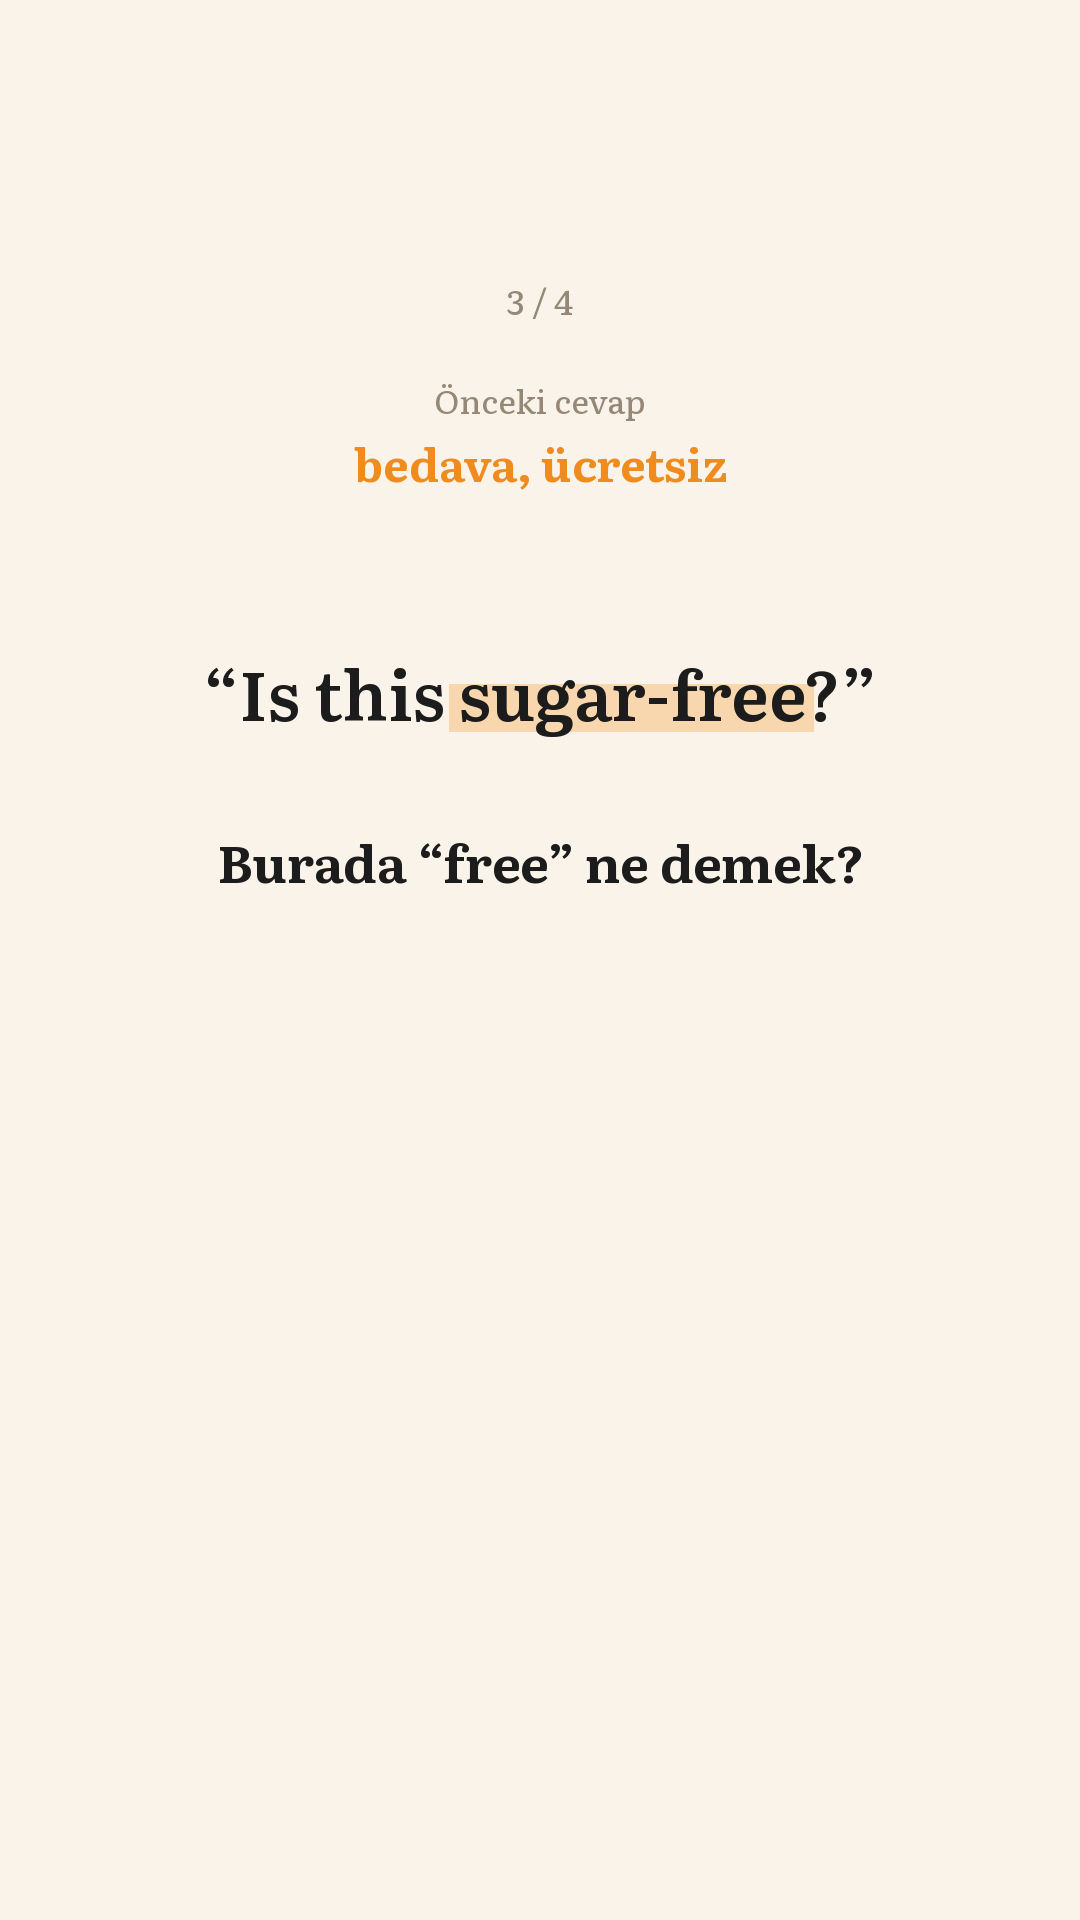
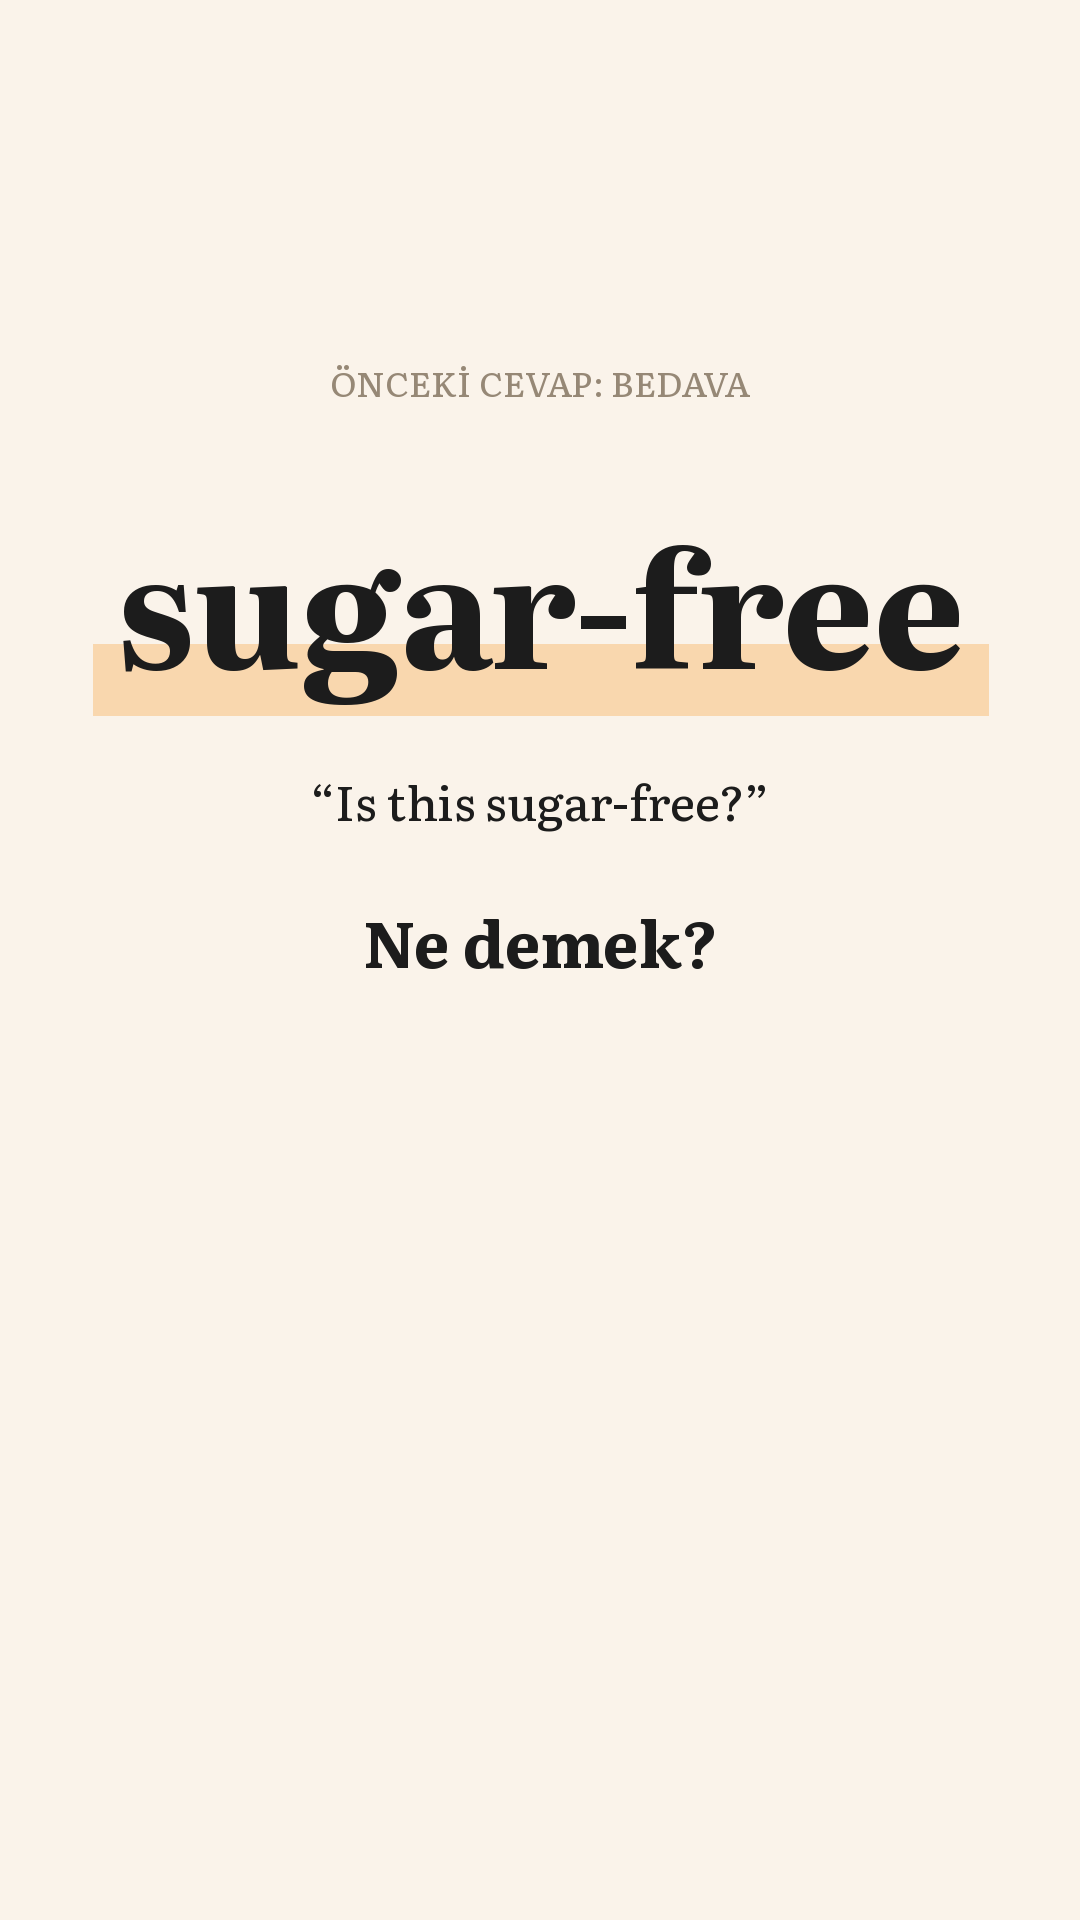
free hikaye seti v2: tüm kareler ilk karenin formatında
Claude-Session: https://claude.ai/code/session_019qtCGA3eorTyVVpn2iHJeU

Changed region(s): [[0.0611, 0.2812, 0.9167, 0.5312], [0.3056, 0.1875, 0.7028, 0.25]]

diff --git a/icerik/2026-11-27_hikaye_kelime/PAKET.md b/icerik/2026-11-27_hikaye_kelime/PAKET.md
@@ -13,3 +13,5 @@ Her karenin cevabı bir sonraki karenin üstünde. 1–4. karelere test çıkart
 
 Ekip: Daniel ✅ (merak + "bildiğimi sanıyordum" şaşkınlığı; her kare bir öncekinin cevabını veriyor, ileri dokunma nedeni var) · Mr. Feast ✅ · David ✅ (dört kullanım da doğru ve gündelik) · Tomris ✅ · Charlie ✅ (kapanışta özellik iddiası yok; "cümle içinde okumak" uygulamanın yaptığı şey) · Steve İşler: haftalık 2 uygulama hikâyesi sınırına sayılır (bu hafta 1. ya da 2.) · Nate: ölçüm = kare kare ileri/çıkış ve bağlantı dokunuşu (Instagram hikâye istatistikleri, Mehmet'ten).
 Tutarsa seri: her reelden bir kelime, 4 bağlam (line, run, get, right…).
+
+v2 (Mehmet 21:11: "ilk görsel ile format aynı olmalı"): 2–5. kareler ilk karenin düzeninde (üstte küçük etiket = önceki cevap, büyük vurgulu kelime, cümle, "Ne demek?"). Kural: seri kareleri hep bu tek şablonla.
